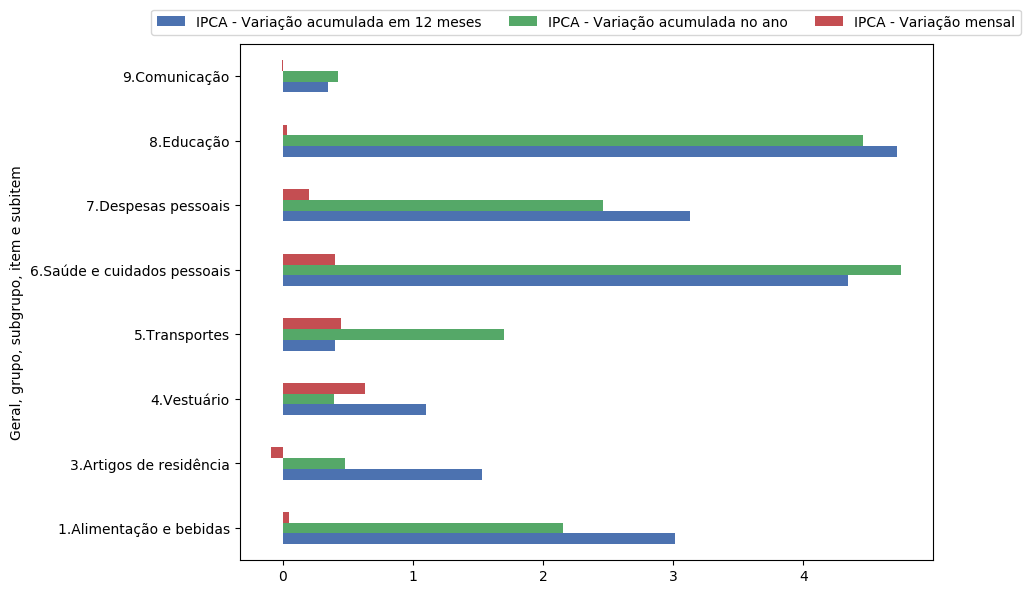
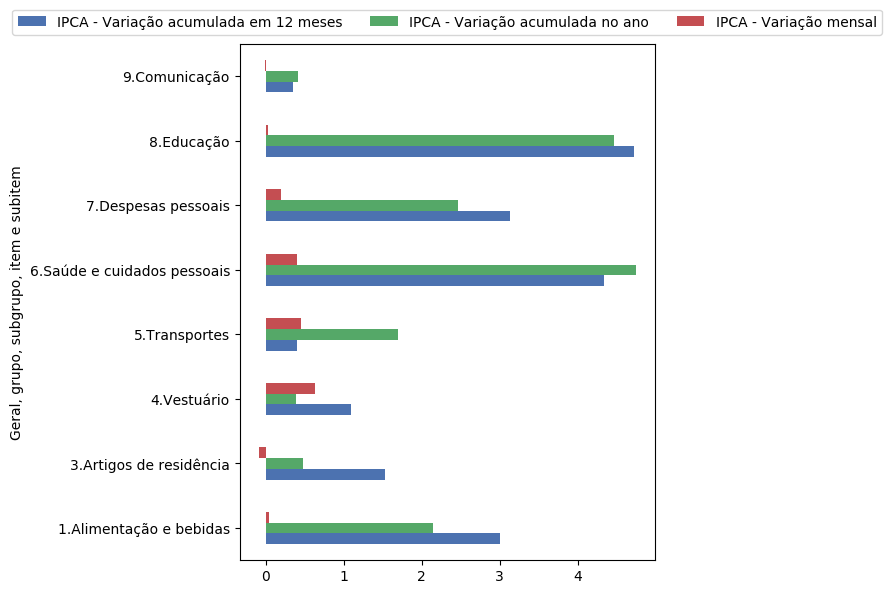
README: changed images and other small things

diff --git a/README.md b/README.md
@@ -353,6 +353,7 @@ is already of type `datetime64[ns]` sou you can immediately enjoy
 pandas functionalities regarding dates, such as slicing and plotting.
 
 ```python
+
 from seriesbr import seriesbr
 
 dados = seriesbr.get_series(
@@ -370,18 +371,15 @@ import matplotlib
 
 matplotlib.style.use('seaborn-deep')
 
-dados.plot(subplots=True, layout=(2, 2), figsize=(10, 7))
+dados.plot(subplots=True, layout=(2, 2))
 plt.gcf().tight_layout()
 plt.suptitle("Séries do IPEADATA e do BCB")
 plt.subplots_adjust(top=.9)
+plt.savefig('example.png')
 ```
 
-![img](example.png)
-
-Hope you enjoy the package!!
-
-If you find any bugs or if you think something could be better, 
-feel free to open an issue / contribute by opening a pull request!
+<p align="center">
+  <img src="example.png"/></p>
 
 ## Instituto Brasileiro de Geografia e Estatística
 
@@ -421,11 +419,13 @@ The aggregate used was "IPCA - Variação mensal, acumulada no ano e acumulada e
 let's search for its code.
 
 ```python
+
 pd.set_option('max_colwidth', 200)
 
 from seriesbr import ibge
 
 ibge.list_aggregates("IPCA - Variação mensal, acumulada")
+
 ```
 
             id                                                                                                                                                                                       nome
@@ -511,7 +511,7 @@ Let's now do the manipulation needed to the plot.
 ```python
 ipca["2019-10"].pivot_table(
     index="Geral, grupo, subgrupo, item e subitem", columns="Variável", values="Valor"
-).plot(kind="barh", figsize=(10, 6)).legend(
+).plot(kind="barh", figsize=(8, 6)).legend(
     loc="upper center", ncol=3, bbox_to_anchor=(0.5, 1.08)
 )
 
@@ -519,7 +519,9 @@ plt.tight_layout()
 plt.savefig('ipca.png', bbox_inches="tight")
 ```
     
-![img](ipca.png)
+<p align="center">
+  <img src="ipca.png"/></p>
+
 
 ## Conclusion
 
